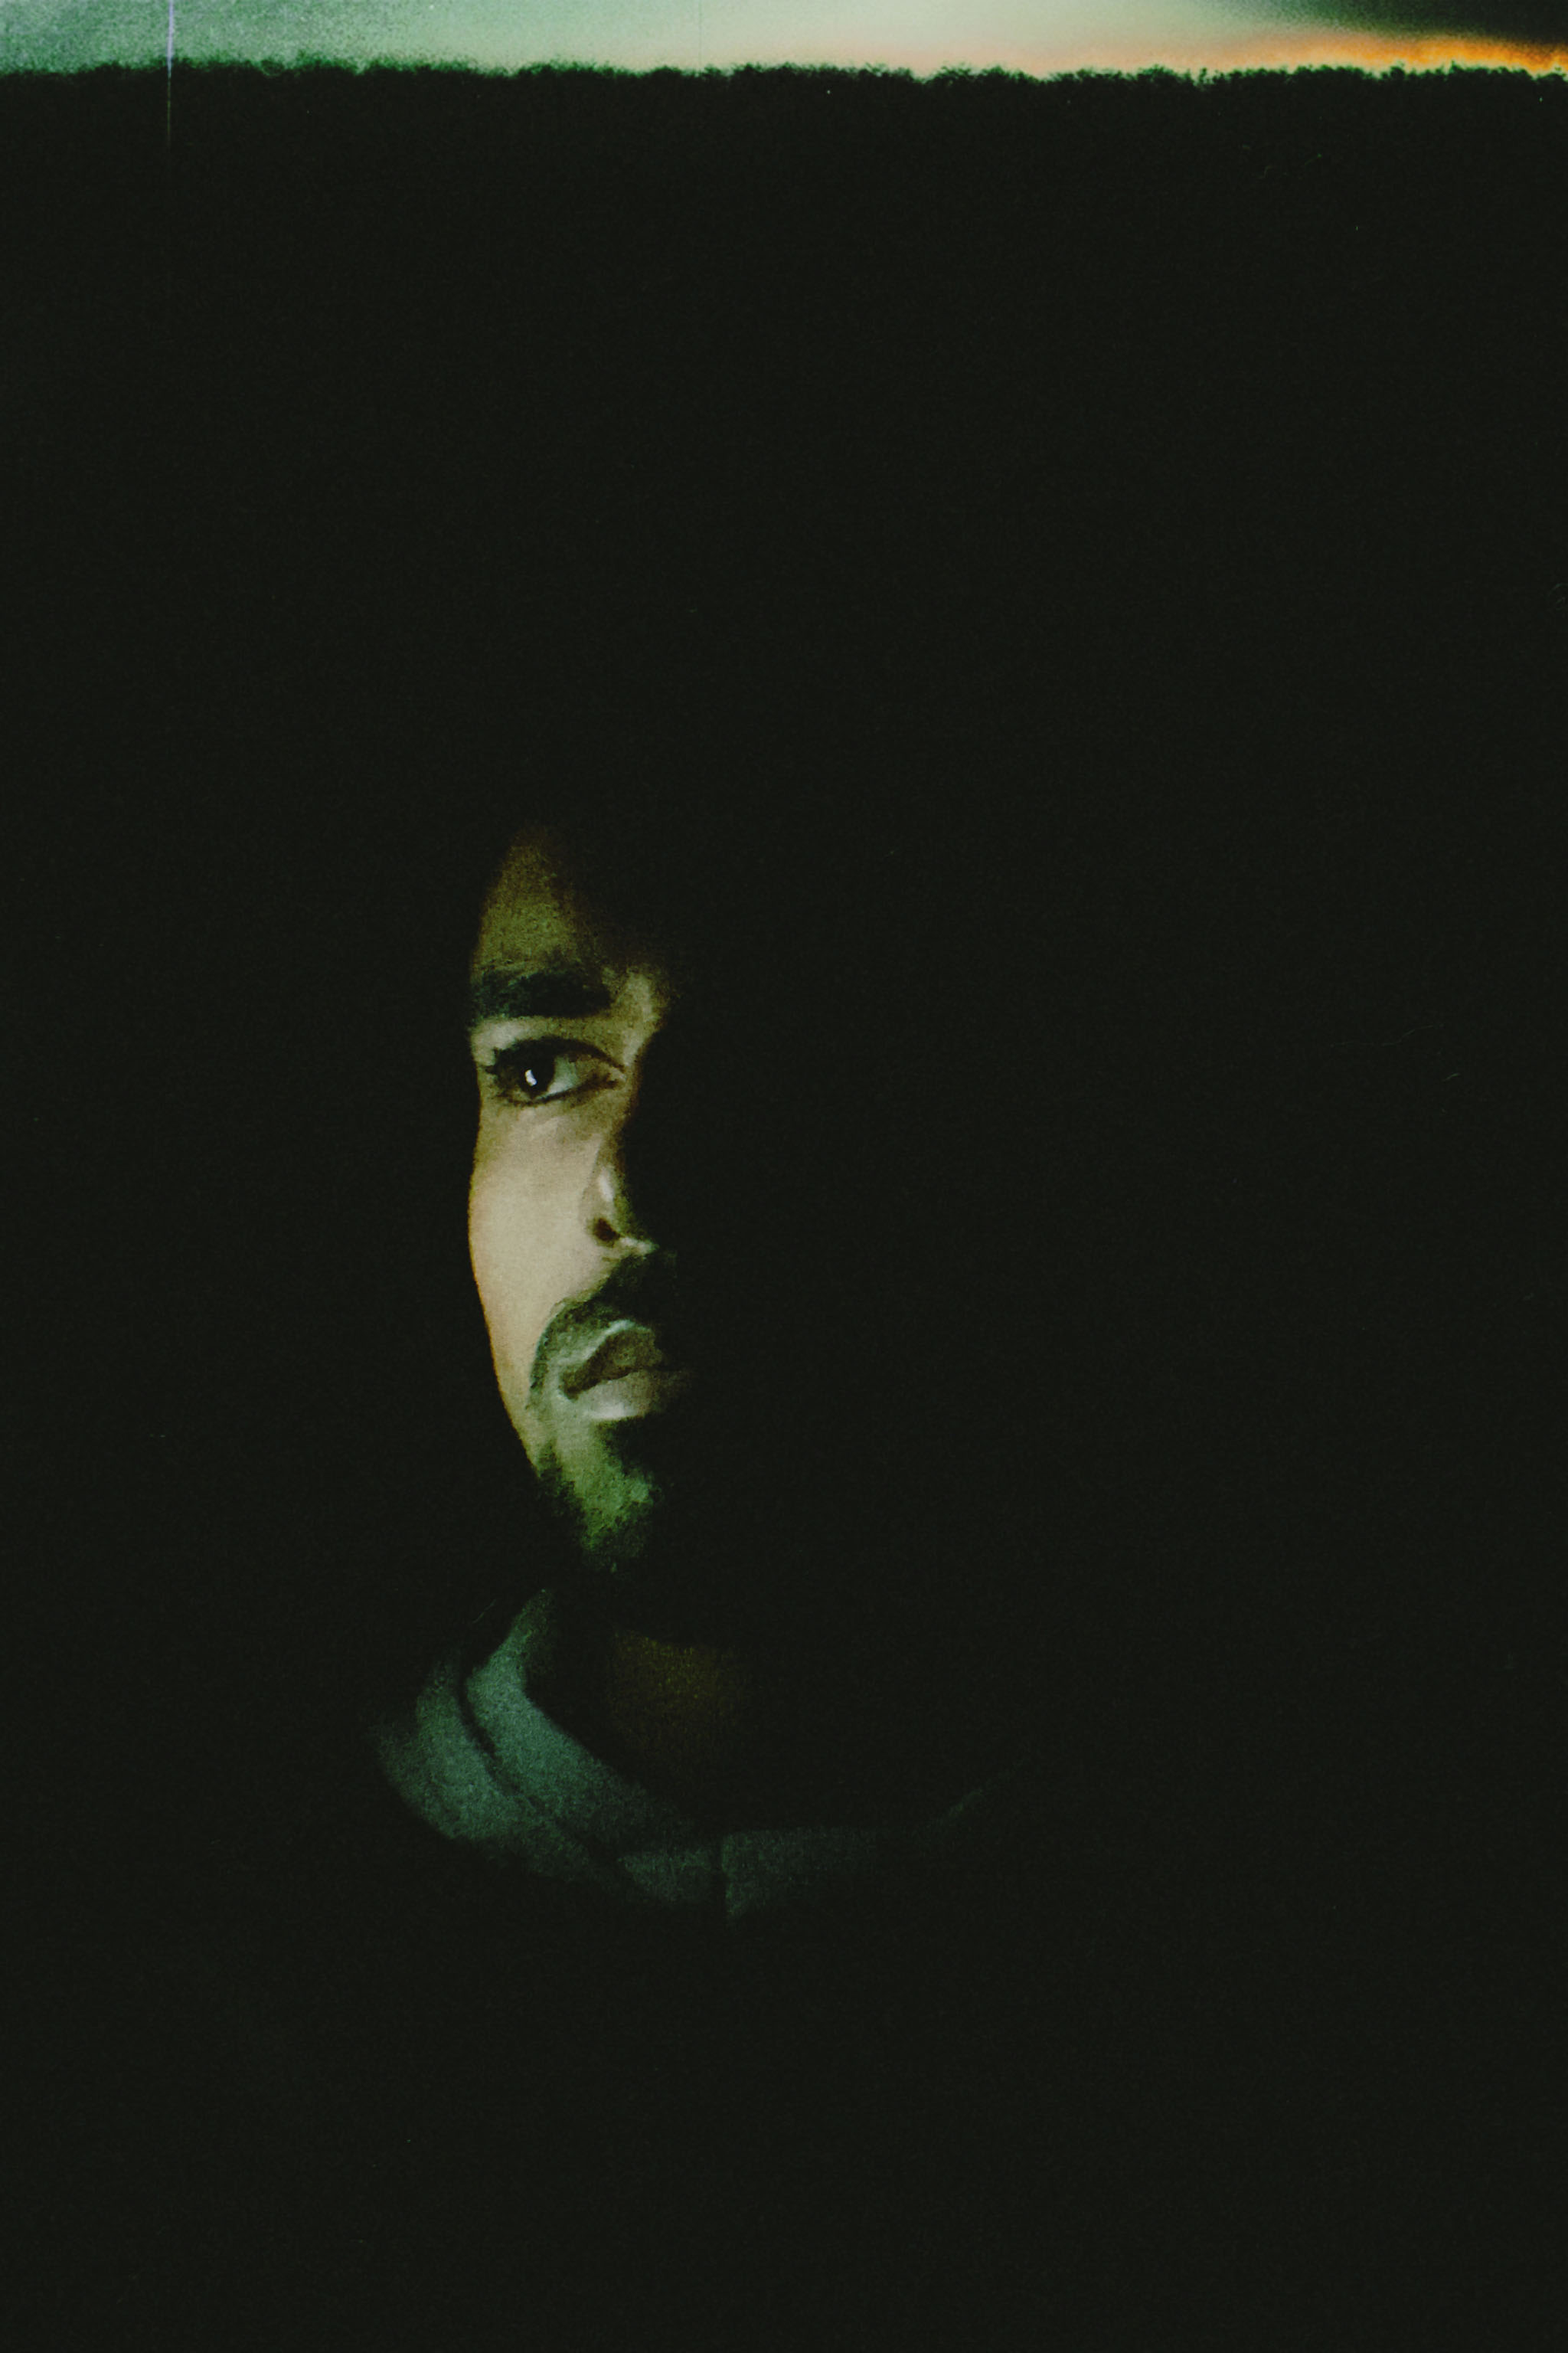
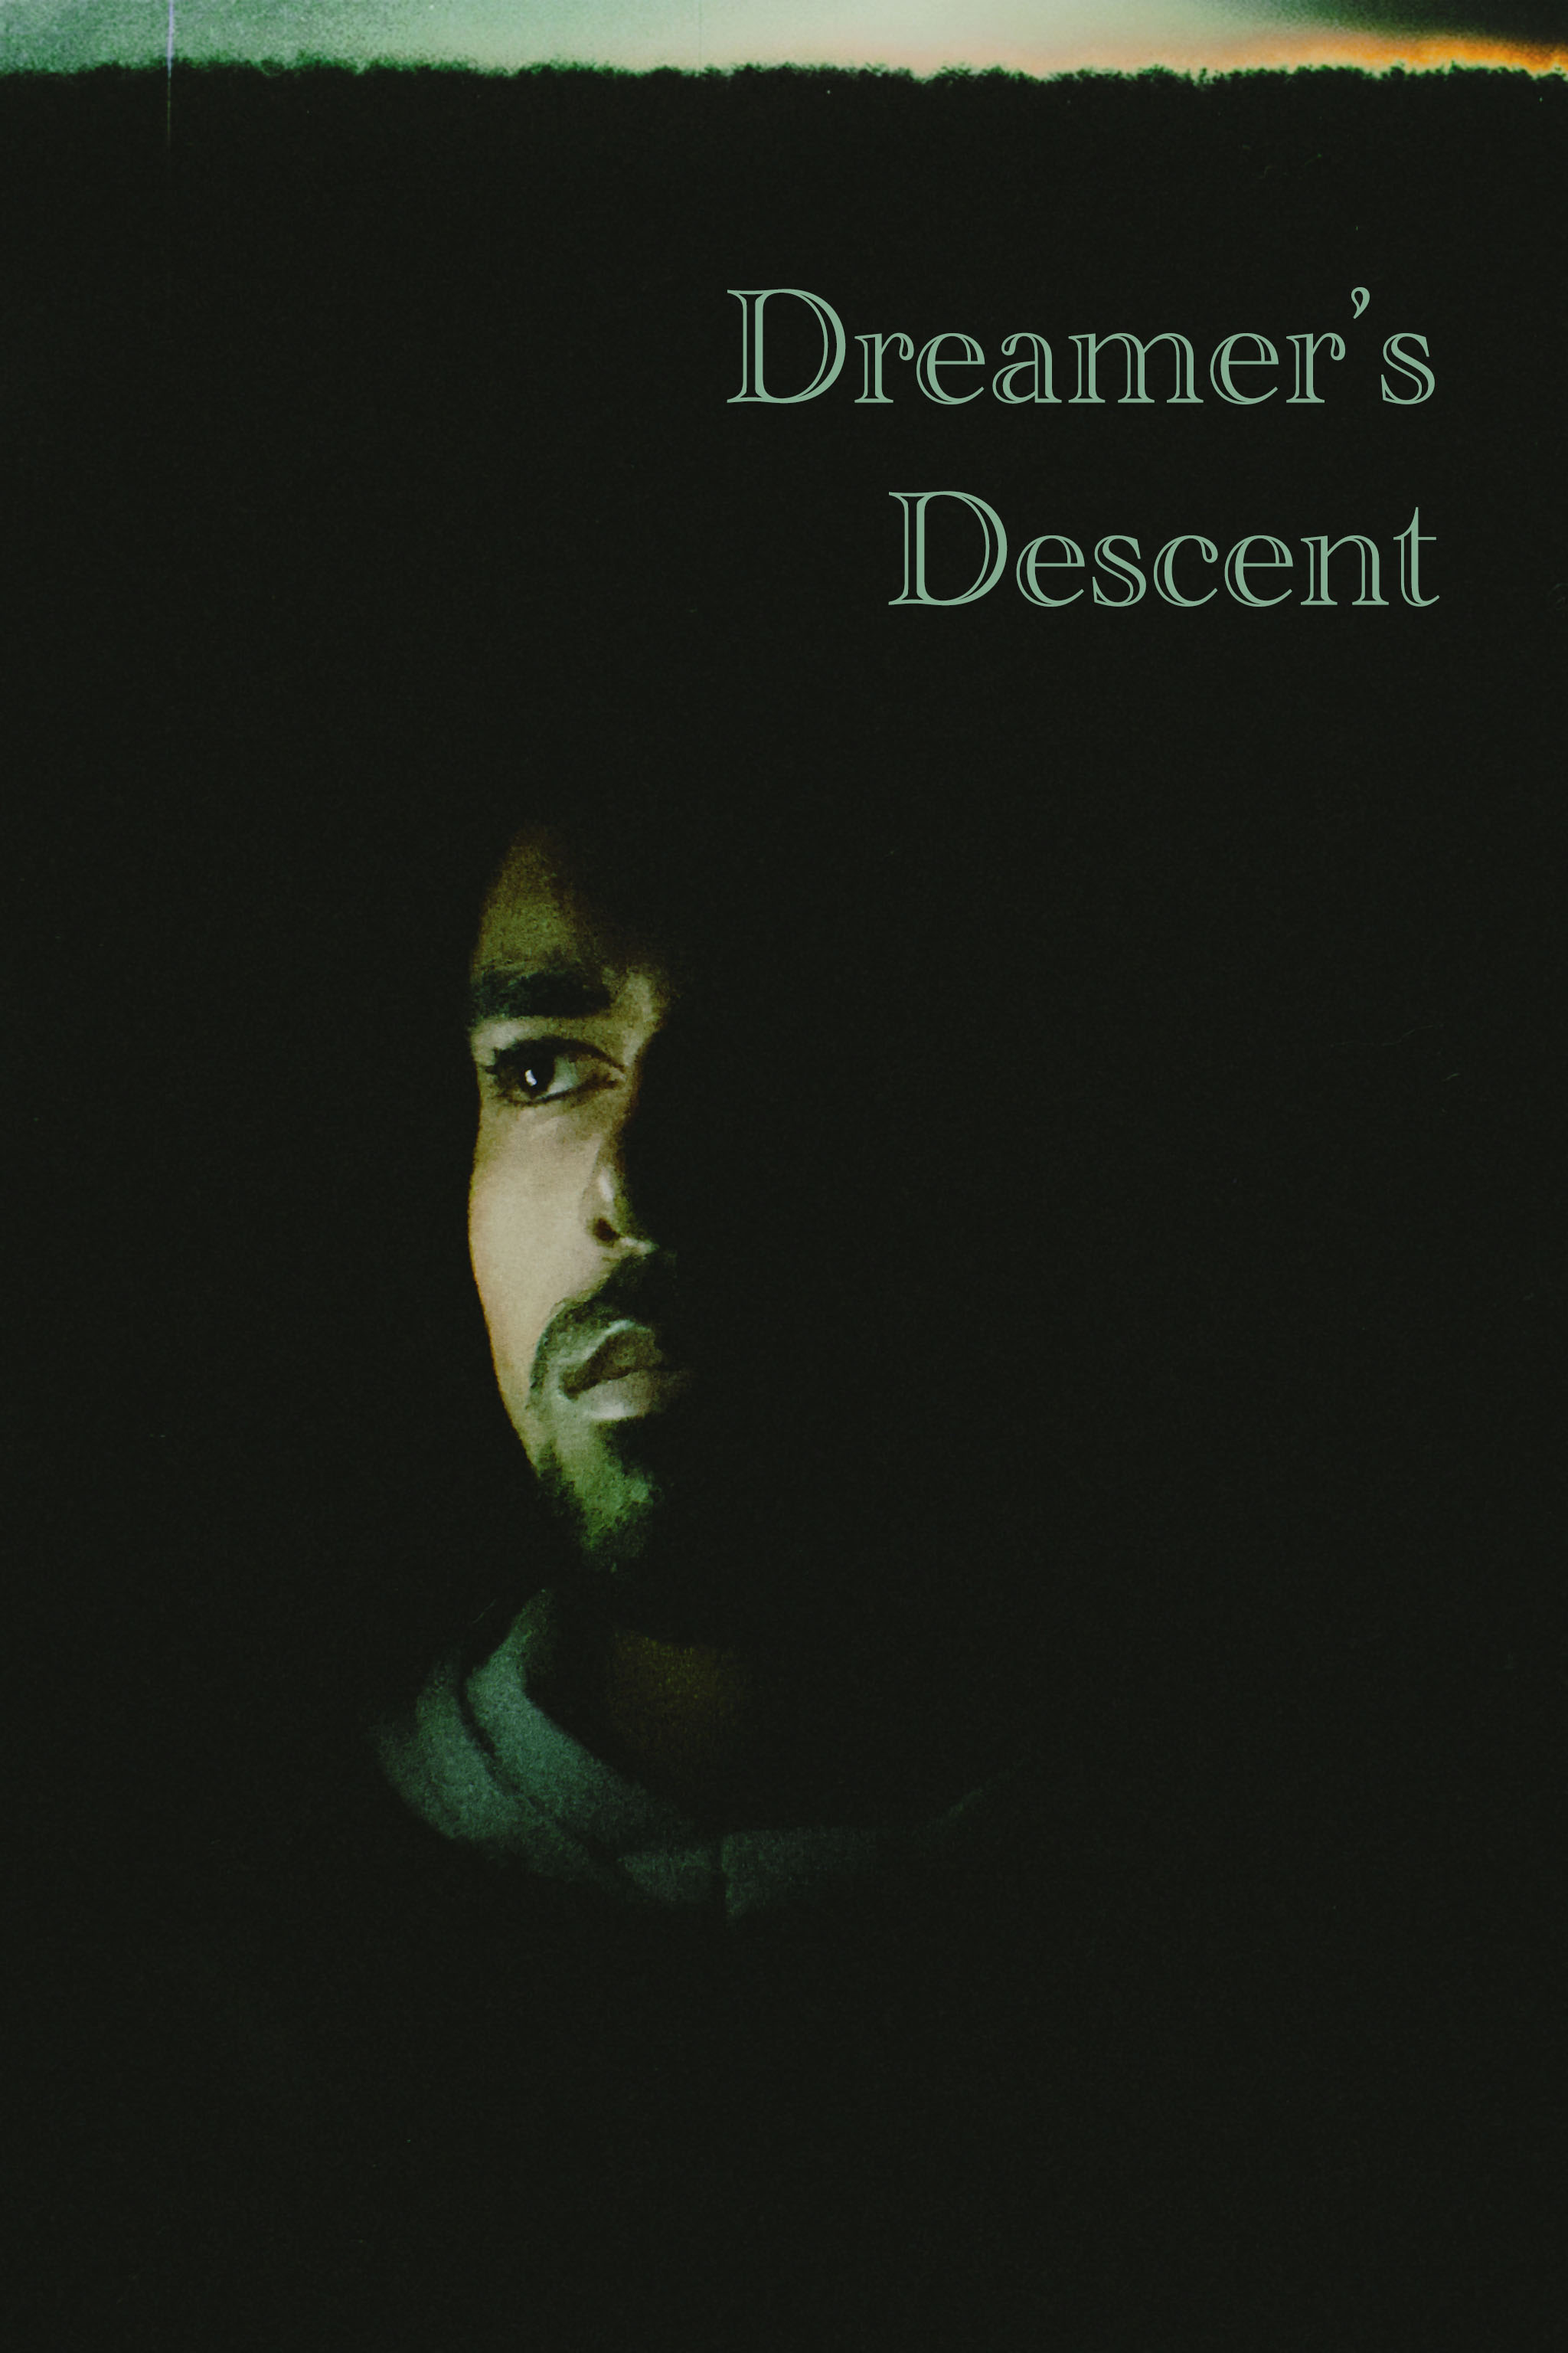
made album cover

Changed region(s): [[0.4688, 0.125, 0.9062, 0.1875], [0.625, 0.2188, 0.9062, 0.2812], [0.5625, 0.1875, 0.625, 0.2812]]

diff --git a/index.html b/index.html
@@ -19,9 +19,9 @@
       <div class="flip-card-front">
         <img src="./main pics/albumcover.jpg" alt="Avatar" style="width:500px;height:700px;">
       </div>
-      <div class="flip-card-back">
+      <!-- <div class="flip-card-back">
         <img src="./main pics/IMG_1641.JPG" alt="Avatar" style="width:500px;height:700px;">
-      </div>
+      </div> -->
     </div>
   </div>
 

diff --git a/styles.css b/styles.css
@@ -40,9 +40,9 @@ body {
   box-shadow: 0 4px 8px 0 rgba(0,0,0,0.2);
 }
 
-.flip-card:hover .flip-card-inner {
+/* .flip-card:hover .flip-card-inner {
   transform: rotateY(180deg);
-}
+} */
 
 .flip-card-front, .flip-card-back {
   position: absolute;
